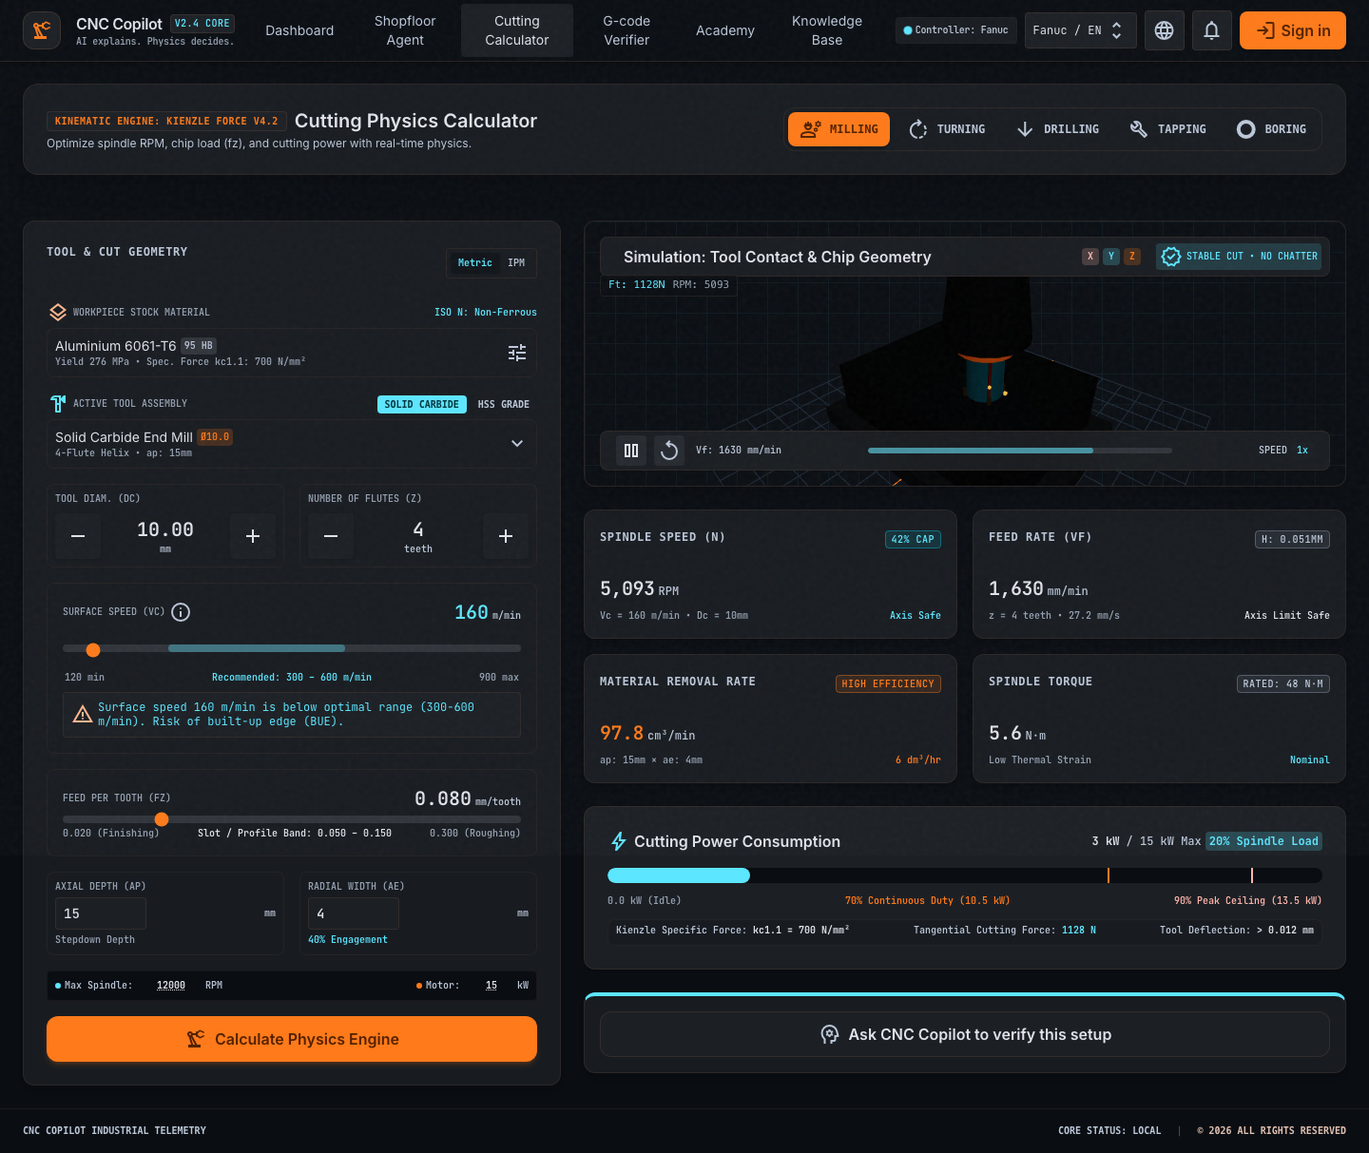
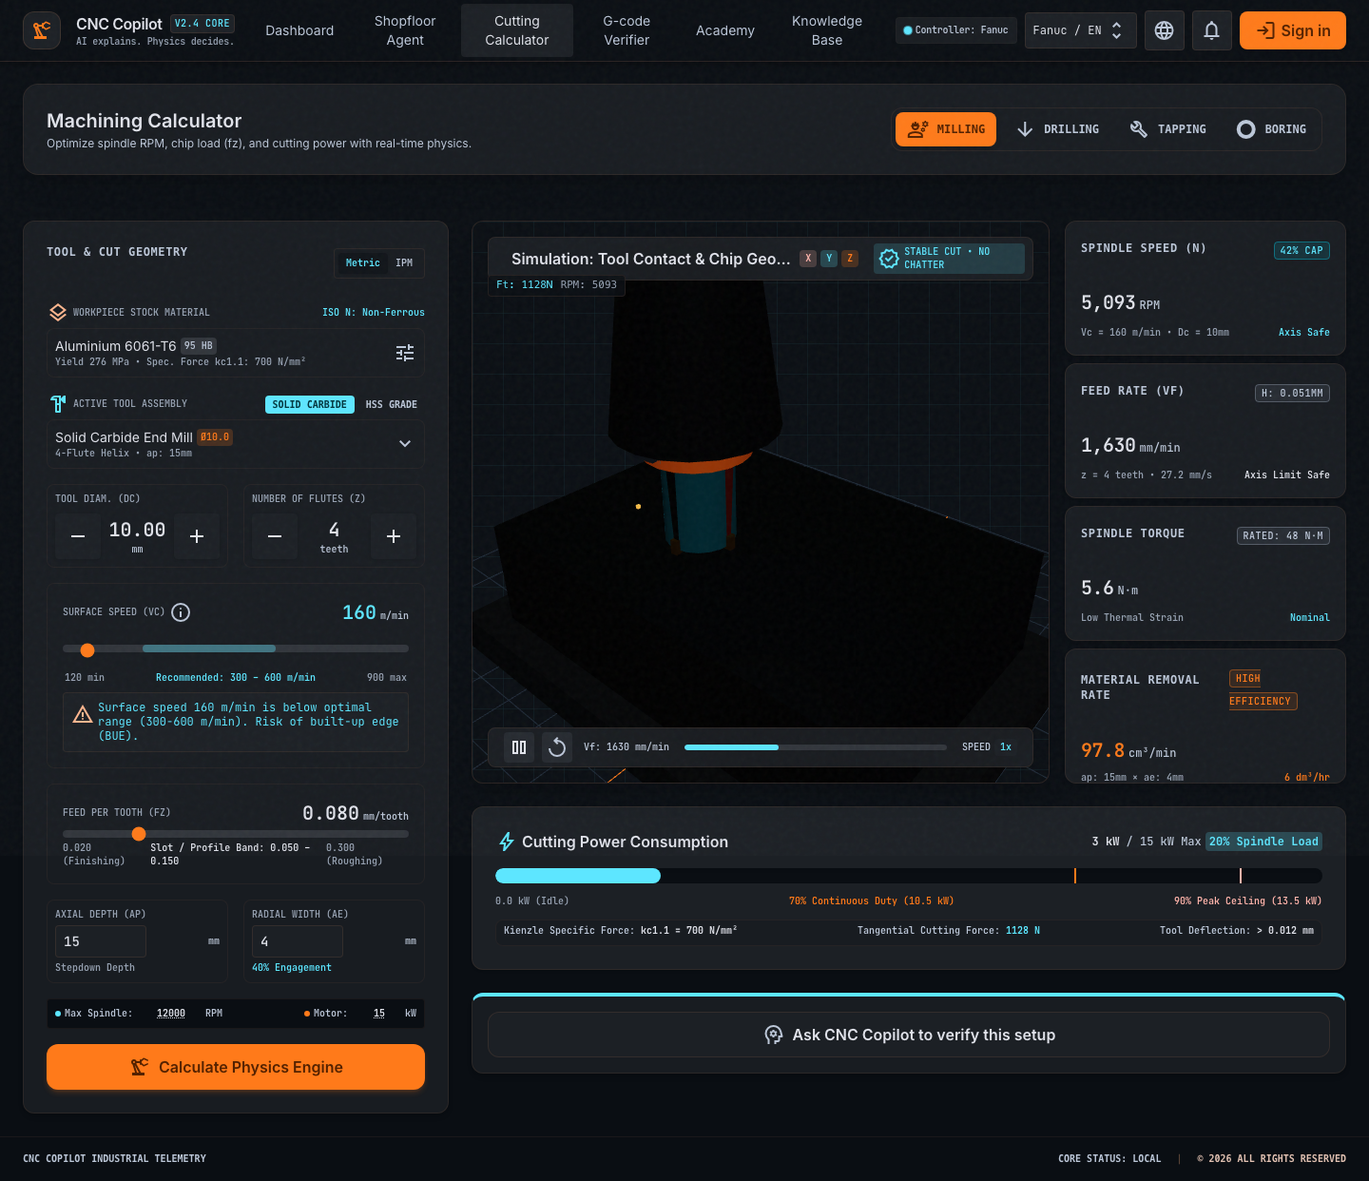
calculator: update heading to Machining Calculator, enlarge 3D view, and order vertical metrics [design-approved]

diff --git a/src/components/calculator/CuttingCalculator.tsx b/src/components/calculator/CuttingCalculator.tsx
@@ -81,7 +81,7 @@ export function CuttingCalculator() {
       flutes: process === 'milling' ? flutes : 1,
       vc,
       feed: process === 'tapping' ? pitch : feed,
-      ap: process === 'milling' || process === 'turning' || process === 'boring' ? ap : undefined,
+      ap: process === 'milling' || process === 'boring' ? ap : undefined,
       ae: process === 'milling' ? ae : undefined,
       depth: holeDepth,
       machineMaxKw,
@@ -155,8 +155,7 @@ export function CuttingCalculator() {
         {/* Header & Process Tabs */}
         <section className="w-full mb-space-lg">
           <PageHeader
-            label="Kinematic Engine: Kienzle Force V4.2"
-            title="Cutting Physics Calculator"
+            title="Machining Calculator"
             caption="Optimize spindle RPM, chip load (fz), and cutting power with real-time physics."
             actions={
               <Tabs
@@ -164,14 +163,12 @@ export function CuttingCalculator() {
                 onTabChange={(id) => {
                   setProcess(id as ProcessType);
                   if (id === 'milling') setFeed(0.08);
-                  if (id === 'turning') setFeed(0.15);
                   if (id === 'drilling') setFeed(0.12);
                   if (id === 'tapping') { setPitch(1.5); setDiameter(10.0); }
                   if (id === 'boring') setFeed(0.12);
                 }}
                 tabs={[
                   { id: 'milling', label: 'Milling', icon: 'engineering' },
-                  { id: 'turning', label: 'Turning', icon: 'rotate_right' },
                   { id: 'drilling', label: 'Drilling', icon: 'arrow_downward' },
                   { id: 'tapping', label: 'Tapping', icon: 'build' },
                   { id: 'boring', label: 'Boring', icon: 'trip_origin' },
@@ -181,10 +178,10 @@ export function CuttingCalculator() {
           />
         </section>
 
-        {/* Main Split Pane Layout (5 cols left, 7 cols right) */}
+        {/* Main Split Pane Layout (4 cols left, 8 cols right) */}
         <div className="w-full grid grid-cols-1 xl:grid-cols-12 gap-space-lg items-start">
           {/* Left Inputs Panel */}
-          <Card className="xl:col-span-5 p-space-lg flex flex-col gap-space-md">
+          <Card className="xl:col-span-4 p-space-lg flex flex-col gap-space-md">
             {/* Units Toggle & Header */}
             <div className="flex items-center justify-between pb-space-xs">
               <SectionHeader title="Tool & Cut Geometry" className="border-b-0 mb-0 pb-0" />
@@ -603,107 +600,112 @@ export function CuttingCalculator() {
             </ButtonPrimary>
           </Card>
 
-          {/* Right Results Panel (7 cols of 12) */}
-          <div className="xl:col-span-7 flex flex-col gap-space-lg">
-            {/* 3D Tool Contact & Chip Geometry Viewport */}
-            <Calculator3DView
-              rpm={results.rpm}
-              feedRate={results.feedRate}
-              diameter={diameter}
-              process={process}
-              powerZone={results.powerZone}
-              tangentialForce={results.tangentialForce}
-            />
-
-            {/* Core Physics Metrics Grid (2x2) */}
-            <div className="grid grid-cols-1 sm:grid-cols-2 gap-space-md">
-              {/* Metric Card 1: Spindle Speed (n) */}
-              <Card className="p-space-md flex flex-col justify-between">
-                <SectionHeader 
-                  title="Spindle Speed (n)" 
-                  actions={<Badge variant="secondary">{Math.round((results.rpm / maxSpindleRpm) * 100)}% Cap</Badge>}
-                  className="border-b-0 mb-0 pb-0"
+          {/* Right Results Panel (8 cols of 12) */}
+          <div className="xl:col-span-8 flex flex-col gap-space-lg">
+            {/* Simulation and Vertical Metrics Grid */}
+            <div className="grid grid-cols-1 lg:grid-cols-12 gap-space-md items-stretch">
+              {/* 3D Tool Contact & Chip Geometry Viewport (Enlarged width & height) */}
+              <div className="lg:col-span-7 xl:col-span-8 flex flex-col">
+                <Calculator3DView
+                  rpm={results.rpm}
+                  feedRate={results.feedRate}
+                  diameter={diameter}
+                  process={process}
+                  powerZone={results.powerZone}
+                  tangentialForce={results.tangentialForce}
                 />
-                <div className="flex items-baseline gap-space-xs my-space-xs">
-                  <span className="font-code-lg text-[32px] leading-none font-bold text-on-surface tracking-tight">
-                    {results.rpm.toLocaleString()}
-                  </span>
-                  <span className="font-label-md text-label-md font-mono text-tertiary">RPM</span>
-                </div>
-                <div className="flex items-center justify-between pt-space-xs text-tertiary-container font-label-sm text-label-sm font-mono">
-                  <span>Vc = {vc} m/min • Dc = {diameter}mm</span>
-                  <span className="text-secondary font-semibold">
-                    {results.rpm > maxSpindleRpm ? 'EXCEEDS CAPACITY' : 'Axis Safe'}
-                  </span>
-                </div>
-              </Card>
+              </div>
 
-              {/* Metric Card 2: Feed Rate (Vf) */}
-              <Card className="p-space-md flex flex-col justify-between">
-                <SectionHeader 
-                  title="Feed Rate (Vf)" 
-                  actions={<Badge variant="tertiary">h: {results.chipThickness}mm</Badge>}
-                  className="border-b-0 mb-0 pb-0"
-                />
-                <div className="flex items-baseline gap-space-xs my-space-xs">
-                  <span className="font-code-lg text-[32px] leading-none font-bold text-on-surface tracking-tight">
-                    {isMetric ? results.feedRate.toLocaleString() : (results.feedRate / 25.4).toFixed(1)}
-                  </span>
-                  <span className="font-label-md text-label-md font-mono text-tertiary">
-                    {isMetric ? 'mm/min' : 'IPM'}
-                  </span>
-                </div>
-                <div className="flex items-center justify-between pt-space-xs text-tertiary-container font-label-sm text-label-sm font-mono">
-                  <span>{process === 'milling' ? `z = ${flutes} teeth` : `Single edge`} • {(results.feedRate / 60).toFixed(1)} mm/s</span>
-                  <span className="text-on-surface">Axis Limit Safe</span>
-                </div>
-              </Card>
+              {/* Core Physics Metrics - Vertically in Sequence (Top to Bottom) */}
+              <div className="lg:col-span-5 xl:col-span-4 flex flex-col gap-space-sm justify-between">
+                {/* 1. Spindle Speed (n) */}
+                <Card className="p-space-md flex flex-col justify-between flex-1">
+                  <SectionHeader 
+                    title="Spindle Speed (n)" 
+                    actions={<Badge variant="secondary">{Math.round((results.rpm / maxSpindleRpm) * 100)}% Cap</Badge>}
+                    className="border-b-0 mb-0 pb-0"
+                  />
+                  <div className="flex items-baseline gap-space-xs my-space-xs">
+                    <span className="font-code-lg text-[26px] xl:text-[32px] leading-none font-bold text-on-surface tracking-tight">
+                      {results.rpm.toLocaleString()}
+                    </span>
+                    <span className="font-label-md text-label-md font-mono text-tertiary">RPM</span>
+                  </div>
+                  <div className="flex items-center justify-between pt-space-xs text-tertiary-container font-label-sm text-label-sm font-mono">
+                    <span>Vc = {vc} m/min • Dc = {diameter}mm</span>
+                    <span className="text-secondary font-semibold">
+                      {results.rpm > maxSpindleRpm ? 'EXCEEDS CAPACITY' : 'Axis Safe'}
+                    </span>
+                  </div>
+                </Card>
 
-              {/* Metric Card 3: Material Removal Rate (MRR) */}
-              <Card className="p-space-md flex flex-col justify-between">
-                <SectionHeader 
-                  title="Material Removal Rate" 
-                  actions={<Badge variant="primary">High Efficiency</Badge>}
-                  className="border-b-0 mb-0 pb-0"
-                />
-                <div className="flex items-baseline gap-space-xs my-space-xs">
-                  <span className="font-code-lg text-[32px] leading-none font-bold text-primary-container tracking-tight">
-                    {formatMrr(results.mrr).split(' ')[0]}
-                  </span>
-                  <span className="font-label-md text-label-md font-mono text-tertiary">
-                    {isMetric ? 'cm³/min' : 'in³/min'}
-                  </span>
-                </div>
-                <div className="flex items-center justify-between pt-space-xs text-tertiary-container font-label-sm text-label-sm font-mono">
-                  <span>{process === 'milling' ? `ap: ${ap}mm × ae: ${ae}mm` : `ap: ${ap || 2}mm`}</span>
-                  <span className="text-primary-container font-semibold">
-                    {Math.round((results.mrr * 60) / 1000)} dm³/hr
-                  </span>
-                </div>
-              </Card>
+                {/* 2. Feed Rate (Vf) */}
+                <Card className="p-space-md flex flex-col justify-between flex-1">
+                  <SectionHeader 
+                    title="Feed Rate (Vf)" 
+                    actions={<Badge variant="tertiary">h: {results.chipThickness}mm</Badge>}
+                    className="border-b-0 mb-0 pb-0"
+                  />
+                  <div className="flex items-baseline gap-space-xs my-space-xs">
+                    <span className="font-code-lg text-[26px] xl:text-[32px] leading-none font-bold text-on-surface tracking-tight">
+                      {isMetric ? results.feedRate.toLocaleString() : (results.feedRate / 25.4).toFixed(1)}
+                    </span>
+                    <span className="font-label-md text-label-md font-mono text-tertiary">
+                      {isMetric ? 'mm/min' : 'IPM'}
+                    </span>
+                  </div>
+                  <div className="flex items-center justify-between pt-space-xs text-tertiary-container font-label-sm text-label-sm font-mono">
+                    <span>{process === 'milling' ? `z = ${flutes} teeth` : `Single edge`} • {(results.feedRate / 60).toFixed(1)} mm/s</span>
+                    <span className="text-on-surface">Axis Limit Safe</span>
+                  </div>
+                </Card>
 
-              {/* Metric Card 4: Spindle Torque (Mc) */}
-              <Card className="p-space-md flex flex-col justify-between">
-                <SectionHeader 
-                  title={process === 'turning' || process === 'boring' ? 'Surface Finish (Ra)' : process === 'drilling' ? 'Drill Thrust (Ff)' : 'Spindle Torque'}
-                  actions={<Badge variant="tertiary">{process === 'turning' || process === 'boring' ? 'Nose r: 0.8mm' : `Rated: ${Math.round((machineMaxKw * 9550) / 3000)} N·m`}</Badge>}
-                  className="border-b-0 mb-0 pb-0"
-                />
-                <div className="flex items-baseline gap-space-xs my-space-xs">
-                  <span className="font-code-lg text-[32px] leading-none font-bold text-on-surface tracking-tight">
-                    {process === 'turning' || process === 'boring' ? results.raUm : process === 'drilling' ? results.thrustForceN : results.torqueNm}
-                  </span>
-                  <span className="font-label-md text-label-md font-mono text-tertiary">
-                    {process === 'turning' || process === 'boring' ? 'µm Ra' : process === 'drilling' ? 'N' : isMetric ? 'N·m' : 'ft·lb'}
-                  </span>
-                </div>
-                <div className="flex items-center justify-between pt-space-xs text-tertiary-container font-label-sm text-label-sm font-mono">
-                  <span>{process === 'turning' || process === 'boring' ? `Cycle: ${results.cycleTimeMin} min` : 'Low Thermal Strain'}</span>
-                  <span className="text-secondary font-semibold">
-                    {process === 'turning' || process === 'boring' ? 'Iso Finish N7' : 'Nominal'}
-                  </span>
-                </div>
-              </Card>
+                {/* 3. Spindle Torque */}
+                <Card className="p-space-md flex flex-col justify-between flex-1">
+                  <SectionHeader 
+                    title={process === 'boring' ? 'Surface Finish (Ra)' : process === 'drilling' ? 'Drill Thrust (Ff)' : 'Spindle Torque'}
+                    actions={<Badge variant="tertiary">{process === 'boring' ? 'Nose r: 0.8mm' : `Rated: ${Math.round((machineMaxKw * 9550) / 3000)} N·m`}</Badge>}
+                    className="border-b-0 mb-0 pb-0"
+                  />
+                  <div className="flex items-baseline gap-space-xs my-space-xs">
+                    <span className="font-code-lg text-[26px] xl:text-[32px] leading-none font-bold text-on-surface tracking-tight">
+                      {process === 'boring' ? results.raUm : process === 'drilling' ? results.thrustForceN : results.torqueNm}
+                    </span>
+                    <span className="font-label-md text-label-md font-mono text-tertiary">
+                      {process === 'boring' ? 'µm Ra' : process === 'drilling' ? 'N' : isMetric ? 'N·m' : 'ft·lb'}
+                    </span>
+                  </div>
+                  <div className="flex items-center justify-between pt-space-xs text-tertiary-container font-label-sm text-label-sm font-mono">
+                    <span>{process === 'boring' ? `Cycle: ${results.cycleTimeMin} min` : 'Low Thermal Strain'}</span>
+                    <span className="text-secondary font-semibold">
+                      {process === 'boring' ? 'Iso Finish N7' : 'Nominal'}
+                    </span>
+                  </div>
+                </Card>
+
+                {/* 4. Material Removal Rate */}
+                <Card className="p-space-md flex flex-col justify-between flex-1">
+                  <SectionHeader 
+                    title="Material Removal Rate" 
+                    actions={<Badge variant="primary">High Efficiency</Badge>}
+                    className="border-b-0 mb-0 pb-0"
+                  />
+                  <div className="flex items-baseline gap-space-xs my-space-xs">
+                    <span className="font-code-lg text-[26px] xl:text-[32px] leading-none font-bold text-primary-container tracking-tight">
+                      {formatMrr(results.mrr).split(' ')[0]}
+                    </span>
+                    <span className="font-label-md text-label-md font-mono text-tertiary">
+                      {isMetric ? 'cm³/min' : 'in³/min'}
+                    </span>
+                  </div>
+                  <div className="flex items-center justify-between pt-space-xs text-tertiary-container font-label-sm text-label-sm font-mono">
+                    <span>{process === 'milling' ? `ap: ${ap}mm × ae: ${ae}mm` : `ap: ${ap || 2}mm`}</span>
+                    <span className="text-primary-container font-semibold">
+                      {Math.round((results.mrr * 60) / 1000)} dm³/hr
+                    </span>
+                  </div>
+                </Card>
+              </div>
             </div>
 
             {/* Tapping Rigid G-code Block Display (if tapping) */}

diff --git a/src/components/calculator/Calculator3DView.tsx b/src/components/calculator/Calculator3DView.tsx
@@ -83,19 +83,13 @@ function CutterAndStock({
       toolY = 0.45;
       toolZ = 0.35;
       isCutting = true;
-    } else if (process === 'drilling' || process === 'tapping' || process === 'boring') {
-      // Plunges into workpiece block along Y and retracts
+    } else {
+      // Drilling, Tapping, Boring: plunges into workpiece block along Y and retracts
       const plunge = Math.sin(p * Math.PI);
       toolX = 0;
       toolY = 0.9 - plunge * 0.75;
       toolZ = 0;
       isCutting = plunge > 0.2;
-    } else {
-      // Turning
-      toolX = 0.8;
-      toolY = 0.1;
-      toolZ = -1.4 + p * 2.8;
-      isCutting = true;
     }
 
     if (cutterRef.current) {
@@ -238,7 +232,7 @@ export function Calculator3DView({
   };
 
   return (
-    <div className="w-full h-[280px] bg-surface-container-lowest rounded-xl relative p-space-md flex flex-col justify-between overflow-hidden shadow-xl border border-outline-variant/40">
+    <div className="w-full h-full min-h-[480px] lg:min-h-[520px] bg-surface-container-lowest rounded-xl relative p-space-md flex flex-col justify-between overflow-hidden shadow-xl border border-outline-variant/40">
       {/* Living Background Grid */}
       <div className="absolute inset-0 opacity-15 pointer-events-none">
         <svg className="w-full h-full" xmlns="http://www.w3.org/2000/svg">
@@ -253,9 +247,9 @@ export function Calculator3DView({
 
       {/* Viewport Top Bar */}
       <div className="relative z-10 flex items-center justify-between bg-surface-container/85 backdrop-blur-md px-space-sm py-1.5 rounded-lg shadow-sm border border-outline-variant/30">
-        <div className="flex items-center gap-space-sm">
-          <span className="w-2 h-2 rounded-full bg-secondary animate-ping"></span>
-          <span className="font-headline-sm text-sm font-bold text-on-surface">
+        <div className="flex items-center gap-space-sm min-w-0">
+          <span className="w-2 h-2 rounded-full bg-secondary animate-ping flex-shrink-0"></span>
+          <span className="font-headline-sm text-sm font-bold text-on-surface truncate">
             Simulation: Tool Contact & Chip Geometry
           </span>
         </div>

diff --git a/e2e/calculator.spec.ts b/e2e/calculator.spec.ts
@@ -1,11 +1,23 @@
 import { test, expect } from '@playwright/test';
 
-test.describe('Cutting Physics Calculator and 3D Simulation', () => {
+test.describe('Machining Calculator and 3D Simulation', () => {
   test('renders 3D simulation canvas and operates playback controls', async ({ page }) => {
     await page.goto('/calculator');
 
     // Verify header and page title
-    await expect(page.locator('text=Cutting Physics Calculator')).toBeVisible({ timeout: 10000 });
+    await expect(page.locator('h1:has-text("Machining Calculator")')).toBeVisible({ timeout: 10000 });
+
+    // Verify Kienzle Force V4.2 label was removed
+    await expect(page.locator('text=Kinematic Engine: Kienzle Force V4.2')).not.toBeVisible();
+
+    // Verify Turning option is removed from tabs
+    await expect(page.locator('button:has-text("Turning")')).not.toBeVisible();
+
+    // Verify remaining tabs are present
+    await expect(page.locator('button:has-text("Milling")')).toBeVisible();
+    await expect(page.locator('button:has-text("Drilling")')).toBeVisible();
+    await expect(page.locator('button:has-text("Tapping")')).toBeVisible();
+    await expect(page.locator('button:has-text("Boring")')).toBeVisible();
 
     // Verify 3D canvas is mounted
     const canvas = page.locator('canvas');
@@ -17,6 +29,7 @@ test.describe('Cutting Physics Calculator and 3D Simulation', () => {
     // Verify physics metrics are computed and displayed
     await expect(page.locator('text=Spindle Speed (n)')).toBeVisible();
     await expect(page.locator('text=Feed Rate (Vf)')).toBeVisible();
+    await expect(page.locator('text=Spindle Torque')).toBeVisible();
     await expect(page.locator('text=Material Removal Rate')).toBeVisible();
 
     // Verify simulation controls: Pause / Play toggle

diff --git a/README.md b/README.md
@@ -38,14 +38,14 @@ CNC Copilot adheres to a strict governing law:
 - **Structured Resolution Cards**: Displays Alarm Code, Description, Root Causes, Prescribed Recovery Actions, and Safety Warnings.
 - **Natural Intent Classification**: Conversational queries render as standard chat bubbles, while critical machine alarms trigger diagnostic cards.
 
-### 2. Cutting Physics Calculator and 3D Simulation
+### 2. Machining Calculator and 3D Simulation
 - **Deterministic Kienzle Force Engine**: Computes specific cutting force ($k_c$), tangential force ($F_c$), cutting power ($P_c$), spindle torque ($M_d$), chip thickness ($h$), and material removal rate (MRR) based on DIN standard mechanical engineering formulas.
 - **Interactive Three.js 3D Viewport**:
   - High-contrast 4-flute cutter geometry with alternating tungsten carbide and protective coatings, gold TiN inserts, and arbor drive keys rendering visible rotation at calculated spindle RPM.
-  - Process-specific tool kinematics: X-axis sweep for milling, sinusoidal plunge and retract for drilling/tapping/boring, radial/axial feed for turning.
+  - Process-specific tool kinematics: X-axis sweep for milling, sinusoidal plunge and retract for drilling/tapping/boring.
   - Dynamic chip ejection sparks reacting in real time during active tool-workpiece engagement.
   - Timeline scrubber synchronized with cut cycle progress, plus play/pause, replay reset, and 0.5x / 1.0x / 1.5x speed multipliers.
-- **5 Machining Operations**: Milling, Turning, Drilling, Tapping (with canned G84 cycle block generation), and Boring.
+- **4 Machining Operations**: Milling, Drilling, Tapping (with canned G84 cycle block generation), and Boring.
 
 ### 3. Academy (Crash Lab)
 - **Virtual 3D Machine Enclosure**: Real-time Three.js scene featuring 3-axis CNC vertical machining center with spindle, vises, clamps, and stock workpiece.

diff --git a/docs/DESIGN_CHANGES.md b/docs/DESIGN_CHANGES.md
@@ -97,3 +97,18 @@ This document records the approved design exceptions and UI updates applied to t
    - **Change:** Wired the timeline scrubber track to the real cut cycle progress, and connected play/pause, replay (cycle reset), and speed multipliers (0.5x, 1x, 1.5x) to both spindle rotation and feed rate.
    - **Rationale:** Replaced static 65% mock progress indicator with a functional timeline tracking the simulated cut.
 
+## Approved UI Changes: Machining Calculator Heading and Layout Realignment
+
+1. **Heading Normalization and Label Removal**
+   - **Change:** Removed "Kinematic Engine: Kienzle Force V4.2" label and renamed title to "Machining Calculator" in `src/components/calculator/CuttingCalculator.tsx`.
+   - **Rationale:** Direct user request to focus the page title and eliminate technical jargon from the primary header.
+
+2. **Removal of Turning Operation and Animation**
+   - **Change:** Removed the "Turning" option from process tabs in `CuttingCalculator.tsx` and removed the corresponding turning toolpath branch in `Calculator3DView.tsx`.
+   - **Rationale:** Aligns the calculator interface with vertical and 3-axis milling/machining center workflows.
+
+3. **Enlarged 3D Viewport and Vertical Metric Sequence**
+   - **Change:** Expanded the 3D simulation widget to `min-h-[520px]` and 8-column right panel span. Reordered and stacked the 4 primary metrics vertically into sequence: (1) Spindle Speed, (2) Feed Rate, (3) Spindle Torque, and (4) Material Removal Rate alongside the 3D viewport.
+   - **Rationale:** Provides significantly greater visual canvas area for tool contact and chip geometry inspection while creating a clean, vertically balanced metrics column.
+
+

diff --git a/docs/ARCHITECTURE.md b/docs/ARCHITECTURE.md
@@ -172,7 +172,6 @@ The cutting calculator features an interactive Three.js viewport (`Calculator3DV
 - **Process-Specific Tool Paths**:
   - *Milling*: Translates across the workpiece block ($X = -1.6$ to $+1.6$) at engagement depth.
   - *Drilling / Tapping / Boring*: Sinusoidal plunge-and-retract cycle along the $Y$ axis.
-  - *Turning*: Radial engagement and axial traverse along the bar stock.
 - **Reactive Chip Ejection**: Particle emitter generating dynamic hot metal chip sparks with simulated parabolic trajectories and gravity when cutting edges engage stock.
 - **Synchronized Timeline Scrubber**: Directly maps to cut cycle completion percentage ($0\%$ to $100\%$) with play/pause, replay cycle reset, and $0.5\times / 1.0\times / 1.5\times$ speed multipliers.
 
